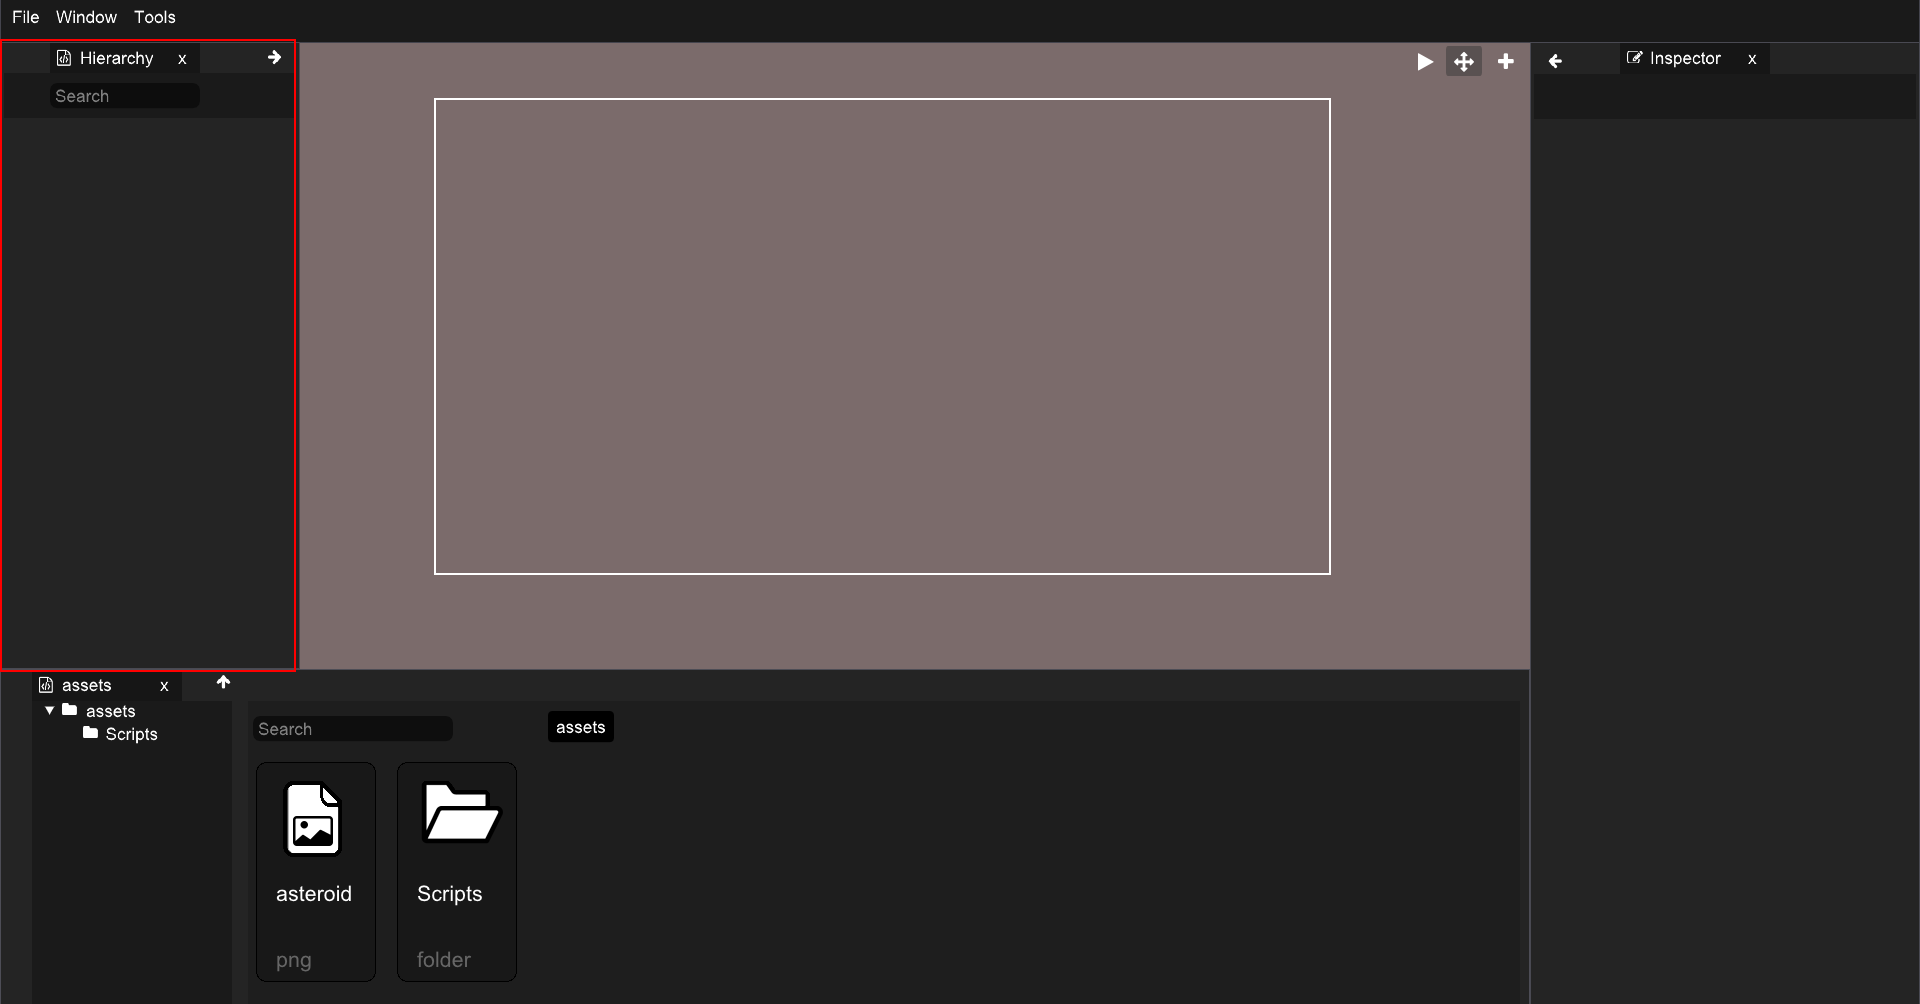
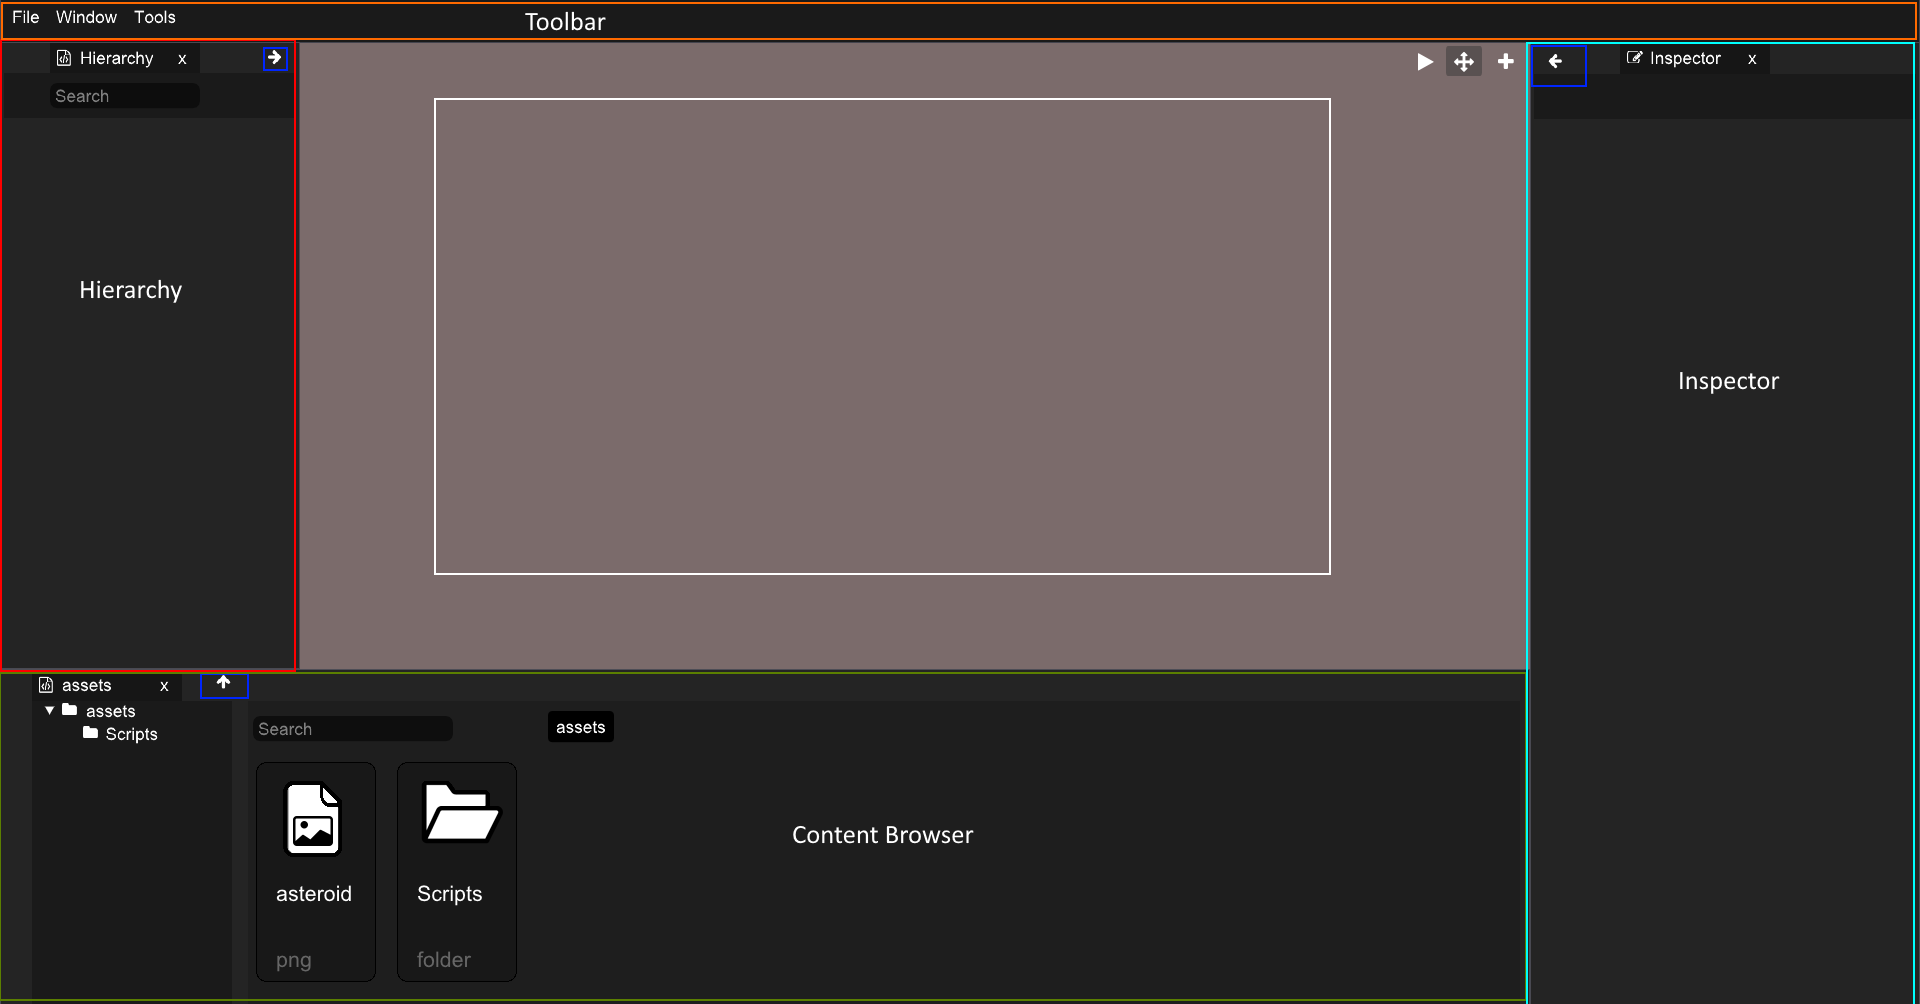
updatet feature website

diff --git a/Website/features.html b/Website/features.html
@@ -43,14 +43,35 @@
     <div class="search-bar">
       <input type="text" id="feature-searcher" onkeyup="search()" placeholder="Search for features...">
     </div>
+    <div class="space-1rem"></div>
     <details>
       <summary style="cursor: pointer; background-color: #ddd; padding: 5px;">A look at the edtor</summary>
       <div class="content-in-details">
+        <div class="space-2rem"></div>
         <h3>The Editor</h3>
         <hr>
+        <ul>
+          <li style="color: red;">Hierarchy</li>
+          <li style="color: orange;">Toolbar</li>
+          <li style="color: rgb(77, 100, 49);">Content browser</li>
+          <li style="color: rgb(18, 189, 189);">Inspector</li>
+        </ul>
         <img id="editor-pic" src="pictures/editor-hierarchy.PNG">
         <div class="space-2rem"></div>
         <h3>Hierarchy</h3>
+        <hr>
+        <p>
+          All the sprites your scene has will display in the editor. You can click on a sprite
+          to select and edit it. You can learn more <a href="#inspector">here</a>
+          <br>
+          To create a new sprite right click in the hierarchy window
+        </p>
+        <img src="pictures/hierarchy-popup.PNG">
+        <p>
+          A popup will pop up, hover over the create button and click on the
+          "Sprite" menu item
+        </p> 
+        <h3 id="inspector">Inspector</h3>
         <hr>
       </div>
     </details>  

diff --git a/Website/styleFeatures.css b/Website/styleFeatures.css
@@ -33,10 +33,20 @@
     height: 0.5rem;
 }
 
+.space-1rem {
+    height: 1rem;
+}
+
 .space-2rem {
     height: 2rem;
 }
 
 .content-in-details {
     margin-left: 2rem;
+}
+
+p {
+    color: rgb(52, 51, 51);
+    font-size: 100%;
+    font-weight: 500;
 }
